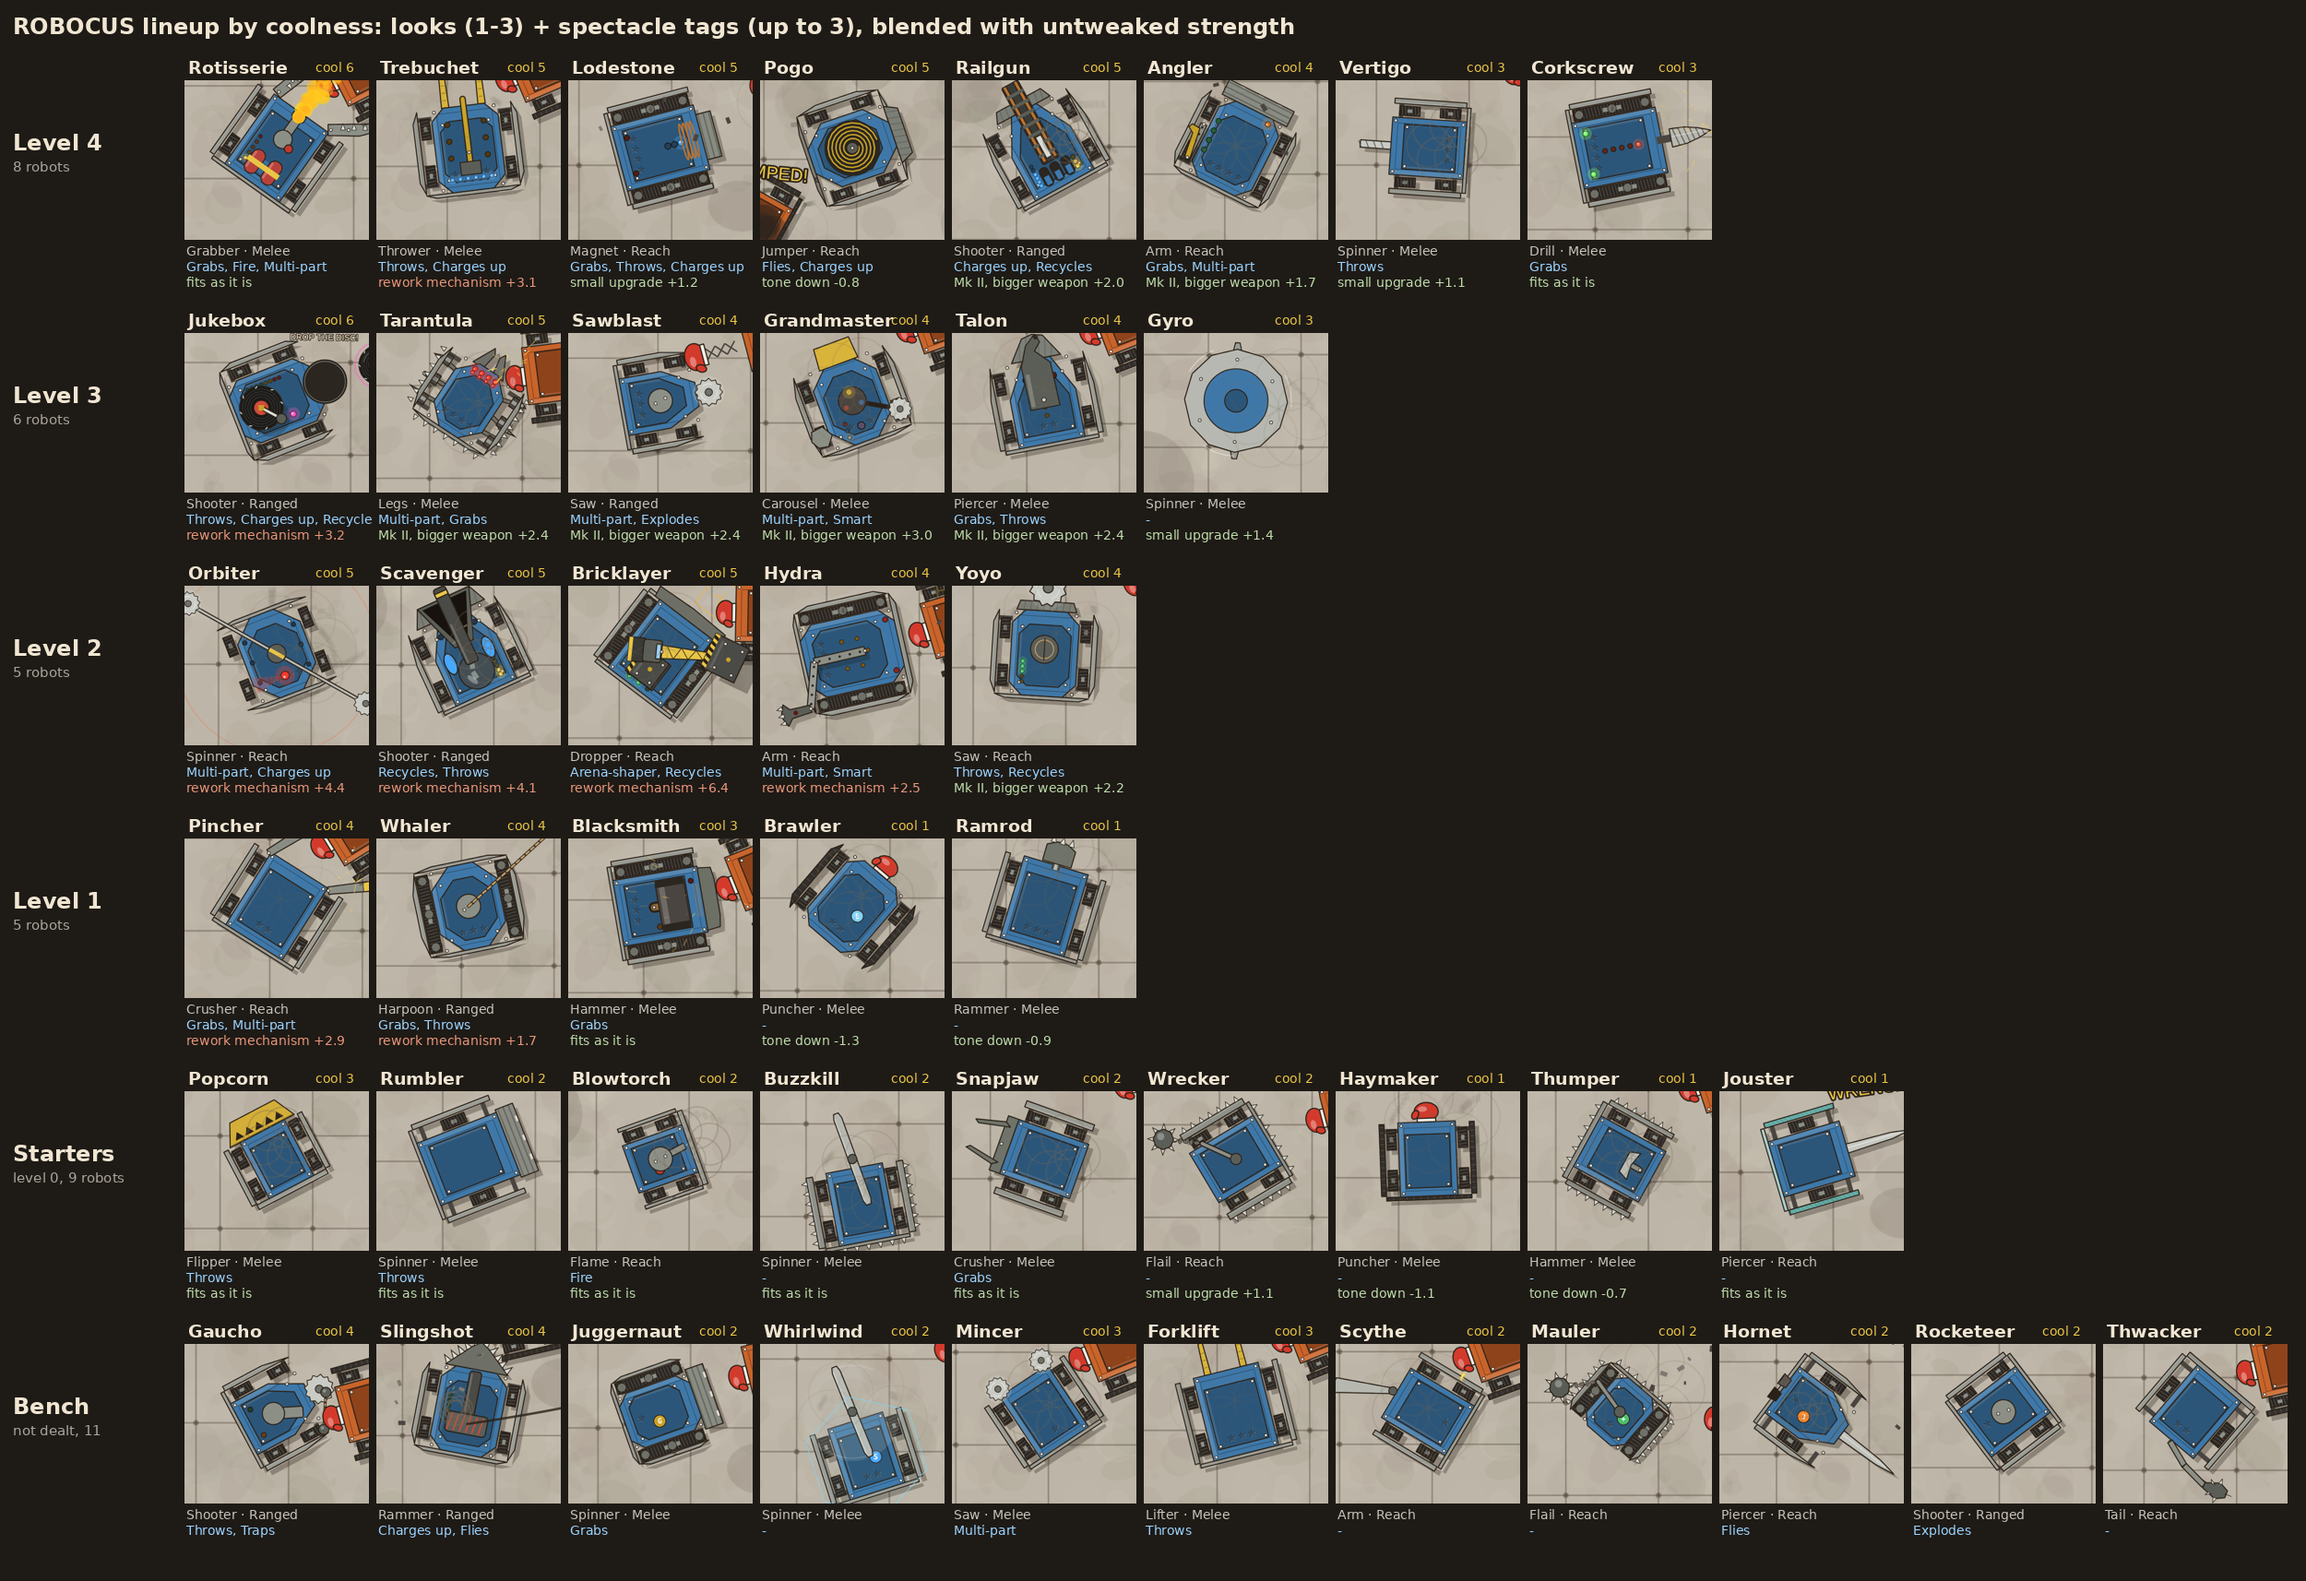
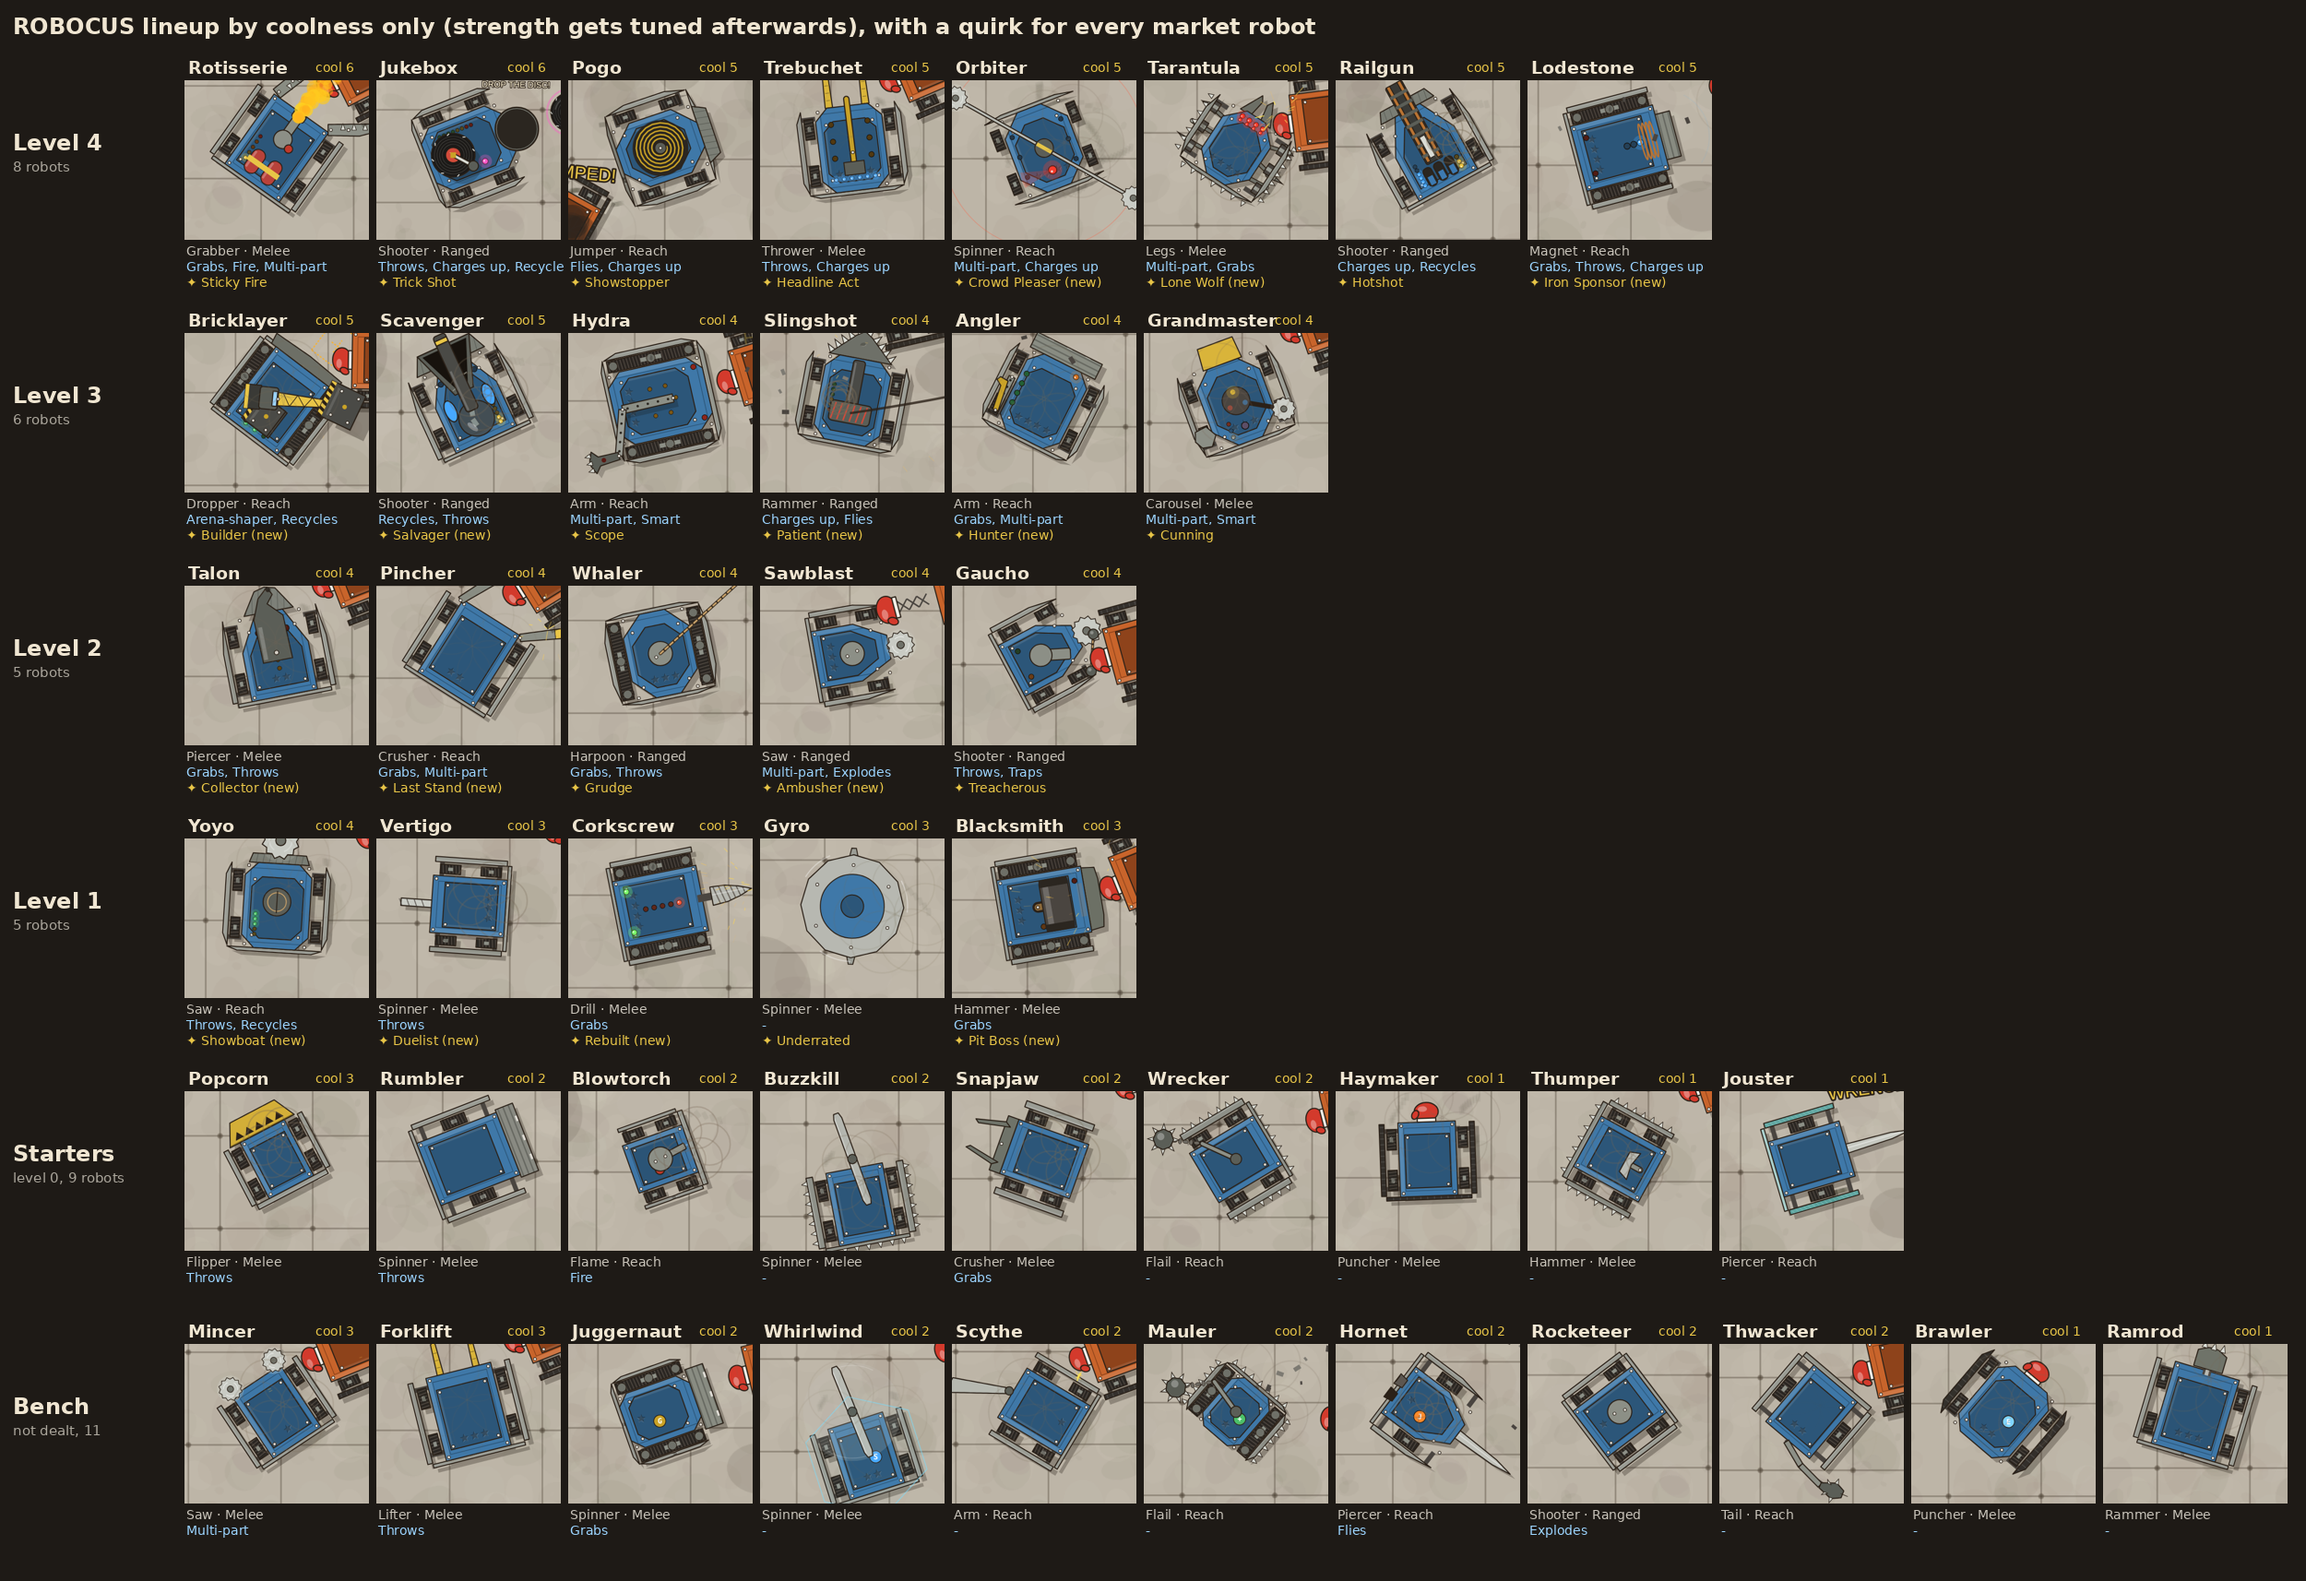
Lineup by coolness only; quirks for every market robot (1.0 quirks + new ones)
Claude-Session: https://claude.ai/code/session_01CaFWADAuXadsLD3K86mWRg

diff --git a/docs/robocus-lineup-by-cool.md b/docs/robocus-lineup-by-cool.md
@@ -34,55 +34,85 @@ Every robot gets:
 
 **Cool score (1-6)** = looks (1-3, from the snapshot gallery: silhouette, size of the weapon, lamps) + spectacle tags (one point each, up to 3).
 
-To place robots in levels, cool score + untweaked strength (in level steps of 85 rating points, levels anchored on the starters' average) are added, and the levels are filled from the top. So the flashiest robots go high, but a very weak flashy robot does not jump four levels.
+Levels are filled by cool score only (Kev, 14 Nov: "we will tweak the numbers if necessary"): strength is tuned afterwards, so a robot's level says how cool it is, not how strong it is today. Ties are broken by how fierce and big the weapon looks (Kev: higher levels look fierce).
 
-## 3. Proposed lineup
+## 3. Proposed lineup (coolness only)
 
-"Needs" = the gap between its untweaked strength and its level, in levels: **fits**; **small upgrade** (up to 1.5 levels, a physical dial: motor, armour, spin); **Mk II** (1.5-3 levels: a bigger weapon); **rework** (more than 3 levels, or it only worked with a damage multiplier of x1.8 or more); **tone down**.
+| Level | Robot | Family, range | Spectacle tags | Cool | Quirk |
+|---|---|---|---|---|---|
+| 4 | Rotisserie | Grabber, melee | Grabs, Fire, Multi-part | 6 | Sticky Fire |
+| 4 | Jukebox | Shooter, ranged | Throws, Charges up, Recycles | 6 | Trick Shot |
+| 4 | Pogo | Jumper, reach | Flies, Charges up | 5 | Showstopper |
+| 4 | Trebuchet | Thrower, melee | Throws, Charges up | 5 | Headline Act |
+| 4 | Orbiter | Spinner, reach | Multi-part, Charges up | 5 | Crowd Pleaser |
+| 4 | Tarantula | Legs, melee | Multi-part, Grabs | 5 | Lone Wolf |
+| 4 | Railgun | Shooter, ranged | Charges up, Recycles | 5 | Hotshot |
+| 4 | Lodestone | Magnet, reach | Grabs, Throws, Charges up | 5 | Iron Sponsor |
+| 3 | Bricklayer | Dropper, reach | Arena-shaper, Recycles | 5 | Builder |
+| 3 | Scavenger | Shooter, ranged | Recycles, Throws | 5 | Salvager |
+| 3 | Hydra | Arm, reach | Multi-part, Smart | 4 | Scope |
+| 3 | Slingshot | Rammer, ranged | Charges up, Flies | 4 | Patient |
+| 3 | Angler | Arm, reach | Grabs, Multi-part | 4 | Hunter |
+| 3 | Grandmaster | Carousel, melee | Multi-part, Smart | 4 | Cunning |
+| 2 | Talon | Piercer, melee | Grabs, Throws | 4 | Collector |
+| 2 | Pincher | Crusher, reach | Grabs, Multi-part | 4 | Last Stand |
+| 2 | Whaler | Harpoon, ranged | Grabs, Throws | 4 | Grudge |
+| 2 | Sawblast | Saw, ranged | Multi-part, Explodes | 4 | Ambusher |
+| 2 | Gaucho | Shooter, ranged | Throws, Traps | 4 | Treacherous |
+| 1 | Yoyo | Saw, reach | Throws, Recycles | 4 | Showboat |
+| 1 | Vertigo | Spinner, melee | Throws | 3 | Duelist |
+| 1 | Corkscrew | Drill, melee | Grabs | 3 | Rebuilt |
+| 1 | Gyro | Spinner, melee | - | 3 | Underrated |
+| 1 | Blacksmith | Hammer, melee | Grabs | 3 | Pit Boss |
+| 0 | Popcorn | Flipper, melee | Throws | 3 | - |
+| 0 | Rumbler | Spinner, melee | Throws | 2 | - |
+| 0 | Blowtorch | Flame, reach | Fire | 2 | - |
+| 0 | Buzzkill | Spinner, melee | - | 2 | - |
+| 0 | Snapjaw | Crusher, melee | Grabs | 2 | - |
+| 0 | Wrecker | Flail, reach | - | 2 | - |
+| 0 | Haymaker | Puncher, melee | - | 1 | - |
+| 0 | Thumper | Hammer, melee | - | 1 | - |
+| 0 | Jouster | Piercer, reach | - | 1 | - |
 
-| Level | Robot | Family, range | Spectacle tags | Cool | Untweaked | Needs |
-|---|---|---|---|---|---|---|
-| 4 | Rotisserie | Grabber, melee | Grabs, Fire, Multi-part | 6 | +458 | fits |
-| 4 | Trebuchet | Thrower, melee | Throws, Charges up | 5 | +72 | rework +3.1 |
-| 4 | Lodestone | Magnet, reach | Grabs, Throws, Charges up | 5 | +228 | small +1.2 |
-| 4 | Pogo | Jumper, reach | Flies, Charges up | 5 | +485 | tone down -0.8 |
-| 4 | Railgun | Shooter, ranged | Charges up, Recycles | 5 | +164 | Mk II +2.0 |
-| 4 | Angler | Arm, reach | Grabs, Multi-part | 4 | +192 | Mk II +1.7 |
-| 4 | Vertigo | Spinner, melee | Throws | 3 | +235 | small +1.1 |
-| 4 | Corkscrew | Drill, melee | Grabs | 3 | +296 | fits |
-| 3 | Jukebox | Shooter, ranged | Throws, Charges up, Recycles | 6 | -28 | rework +3.2 |
-| 3 | Tarantula | Legs, melee | Multi-part, Grabs | 5 | +43 | Mk II +2.4 |
-| 3 | Sawblast | Saw, ranged | Multi-part, Explodes | 4 | +47 | Mk II +2.4 |
-| 3 | Grandmaster | Carousel, melee | Multi-part, Smart | 4 | -5 | Mk II +3.0 |
-| 3 | Talon | Piercer, melee | Grabs, Throws | 4 | +47 | Mk II +2.4 |
-| 3 | Gyro | Spinner, melee | - | 3 | +132 | small +1.4 |
-| 2 | Orbiter | Spinner, reach | Multi-part, Charges up | 5 | -214 | rework +4.4 |
-| 2 | Scavenger | Shooter, ranged | Recycles, Throws | 5 | -185 | rework +4.1 |
-| 2 | Bricklayer | Dropper, reach | Arena-shaper, Recycles | 5 | -378 | rework +6.4 |
-| 2 | Hydra | Arm, reach | Multi-part, Smart | 4 | -47 | rework +2.5 (had x1.8) |
-| 2 | Yo-yo | Saw, reach | Throws, Recycles | 4 | -28 | Mk II +2.2 |
-| 1 | Pincher | Crusher, reach | Grabs, Multi-part | 4 | -168 | rework +2.9 (had x1.8) |
-| 1 | Whaler | Harpoon, ranged | Grabs, Throws | 4 | -66 | rework +1.7 (had x1.8) |
-| 1 | Blacksmith | Hammer, melee | Grabs | 3 | +28 | fits |
-| 1 | Brawler | Puncher, melee | - | 1 | +192 | tone down -1.3 |
-| 1 | Ramrod | Rammer, melee | - | 1 | +153 | tone down -0.9 |
-| 0 | Popcorn | Flipper, melee | Throws | 3 | -14 | fits |
-| 0 | Rumbler | Spinner, melee | Throws | 2 | -14 | fits |
-| 0 | Blowtorch | Flame, reach | Fire | 2 | -19 | fits |
-| 0 | Buzzkill | Spinner, melee | - | 2 | -38 | fits |
-| 0 | Snapjaw | Crusher, melee | Grabs | 2 | -24 | fits |
-| 0 | Wrecker | Flail, reach | - | 2 | -101 | small +1.1 |
-| 0 | Haymaker | Puncher, melee | - | 1 | +86 | tone down -1.1 |
-| 0 | Thumper | Hammer, melee | - | 1 | +52 | tone down -0.7 |
-| 0 | Jouster | Piercer, reach | - | 1 | +5 | fits |
+**Bench (11):** Mincer, Forklift, Juggernaut, Whirlwind, Scythe, Mauler, Hornet, Rocketeer, Thwacker, Brawler, Ramrod. Slingshot is back in at level 3.
 
-**Bench (11):** Gaucho, Slingshot, Juggernaut, Whirlwind, Mincer, Forklift, Scythe, Mauler, Hornet, Rocketeer, Thwacker. Slingshot and Gaucho are cool (4) but too weak untweaked to place; Kev likes the Slingshot, so it is the first candidate for a Mk II (it needs about +2.5 levels to make level 1).
+## 3b. Quirks: one per market robot
+
+1.0 gave every robot card one quirk (Showstopper, Hotshot, Scope, Trick Shot, Grudge, Underrated, Sticky Fire, Treacherous, Fireproof, Bastion, Cunning, Headline Act). The code is still in the 2.0 tabletop, switched off (`quirkOf = () => null`). Bringing them back gives every market robot a personality on top of its weapon, and it is part of what makes it cool. Starters stay without a quirk (as in 1.0). Each quirk is matched to the robot whose character fits:
+
+| Quirk | | What it does | Robot | Why it fits |
+|---|---|---|---|---|
+| **Sticky Fire** | 1.0 | Robots it sets alight burn 2 s longer. | Rotisserie | flamethrower |
+| **Trick Shot** | 1.0 | Its thrown weapons bank off one extra wall. | Jukebox | its records already bank off walls |
+| **Showstopper** | 1.0 | When it wins, it takes the host's +1 fame for that fight. | Pogo | it lands on robots from the sky |
+| **Headline Act** | 1.0 | When it fights, the host gains +1 extra fame. | Trebuchet | it throws robots: the crowd comes for that |
+| **Crowd Pleaser** | new | +1 fame when it lands the fight's biggest hit (the crowd's "moment"). | Orbiter | spinning discs on booms: the big-moment robot |
+| **Lone Wolf** | new | Never fights in a team; when it beats two robots on its own: +2 fame (Giant Slayer). | Tarantula | a spider hunts alone |
+| **Hotshot** | 1.0 | +1 credit each time it wins. | Railgun | a gun that pays |
+| **Iron Sponsor** | new | +1 credit in every Upkeep while you own it (sponsors love a magnet). | Lodestone | a magnet attracts money |
+| **Builder** | new | Its iron blocks stay in the arena for the next fight too. | Bricklayer | its blocks shape the arena |
+| **Salvager** | new | When it tears a part off a rival, its team opens a Scrap Crate. | Scavenger | it eats junk |
+| **Scope** | 1.0 | Before bets close, see one face-down card on a robot in its fight. | Hydra | the smart reaching arm |
+| **Patient** | new | Can sit out a round without paying its upkeep. | Slingshot | it waits, winds up, then strikes |
+| **Hunter** | new | Picks its opponent: when invited to a fight, its team chooses the rival robot. | Angler | a fishing hook picks its catch |
+| **Cunning** | 1.0 | If it did not fight last round, draw 1 extra Intrigue card. | Grandmaster | the chess-like carousel |
+| **Collector** | new | Gains a trophy for every robot it scraps; at 3 trophies, +1 fame. | Talon | a beak that takes trophies |
+| **Last Stand** | new | Under 25% health it never gets scrapped by the host (it is spared). | Pincher | pincers that do not let go |
+| **Grudge** | 1.0 | After losing to a team: stronger in its next fight against that team. | Whaler | a harpoon never forgets |
+| **Ambusher** | new | Its weapon is hidden on the card until its first fight (opponents see a ?). | Sawblast | saw plus rockets, a surprise |
+| **Treacherous** | 1.0 | In a 2v2, before the odds are set, it may switch sides. | Gaucho | an outlaw with bolas |
+| **Showboat** | new | +1 fame when it wins a fight the host bet against. | Yoyo | yo-yo tricks |
+| **Duelist** | new | In a duel (1 vs 1) the bookie can never list it as an outsider. | Vertigo | a vertical disc made for one on one |
+| **Rebuilt** | new | Repairs to it cost half. | Corkscrew | a drill rig that is easy to patch |
+| **Underrated** | 1.0 | The bookie lists it one band lower, so bets on it pay more. | Gyro | a round shell that looks harmless |
+| **Pit Boss** | new | Hosting with it in your garage costs 1 credit less. | Blacksmith | the blacksmith runs the forge |
+
+Not used now: Fireproof and Bastion (1.0), and Lone Wolf as a squadron card (the sandbox's 1-robot titan side) stays a separate idea. The new quirks are suggestions: they still need to be built in the tabletop and checked in the game sim (fame and credit quirks change the economy).
 
 ## 4. What this says
 
-- **13 robots fit or need only a small dial, 7 need a Mk II (bigger weapon), 8 need their mechanism reworked, 5 need toning down.** The reworks are mostly the coolest ones (Jukebox, Orbiter, Scavenger, Bricklayer, Trebuchet): exactly the "flashiest on top" problem, and the place to spend the effort.
-- **Tone down:** Pogo a little, and the plain but strong ones (Brawler, Ramrod, Haymaker, Thumper).
-- **Looks:** in the gallery nearly every robot is the same blue box; only the weapon differs. The cheapest cool-up for the whole roster would be its own body shape per robot (round, wedge, long and low, tall, legged), with the team colour kept. Sorting by looks at the moment mostly sorts by weapon.
-- **These are suggestions to change by hand**: the cool score is a judgement (looks) plus a count (tags). Moving a robot one level up or down only changes its "needs" column.
+- **Strength is tuned afterwards.** The untweaked ratings (`docs/robocus-untweaked-roundrobin.md`) say how far each robot is from its level; the coolest ones are mostly the furthest (Jukebox, Orbiter, Bricklayer, Scavenger, Slingshot need big boosts at their new levels; Corkscrew and Vertigo are strong for level 1). The honest dials come first (weapon size, motor, armour), a small power grade to finish.
+- **Looks:** in the gallery nearly every robot is the same blue box; only the weapon differs. The cheapest cool-up for the whole roster would be its own body shape per robot (round, wedge, long and low, tall, legged), with the team colour kept.
+- **These are suggestions to change by hand**: the cool score is a judgement (looks) plus a count (tags), and the quirk pairings are a first match.
 
 The tags and cool scores are not in the game files yet (this is a proposal). Strength numbers: the untweaked round robin, `docs/robocus-untweaked-roundrobin.md`.
